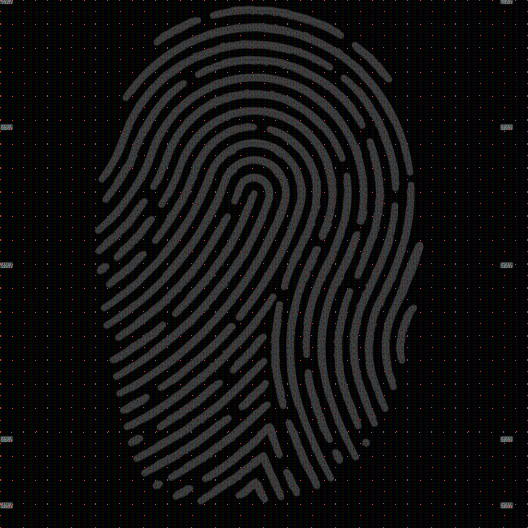
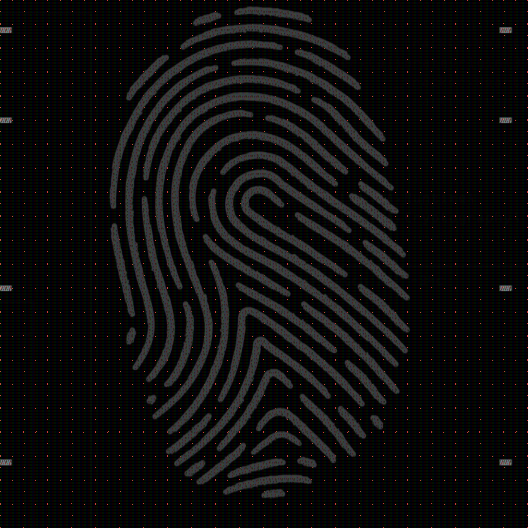
更新指纹图片

diff --git a/index.html b/index.html
@@ -89,13 +89,13 @@
                             <img src="imgs/fingerprints/1.png" alt="">
                         </div>
                         <div class="decypher-fingerprint">
-                            <img src="imgs/fingerprints/1.png" alt="">
+                            <img src="imgs/fingerprints/2.png" alt="">
                         </div>
                         <div class="decypher-fingerprint">
-                            <img src="imgs/fingerprints/1.png" alt="">
+                            <img src="imgs/fingerprints/3.png" alt="">
                         </div>
                         <div class="decypher-fingerprint">
-                            <img src="imgs/fingerprints/1.png" alt="">
+                            <img src="imgs/fingerprints/4.png" alt="">
                         </div>
                     </div>
                 </div>

diff --git a/js/main.js b/js/main.js
@@ -24,7 +24,7 @@ $(function () {
 
 // 开启计时
 function startTimer() {
-    let m = 2;
+    let m = 3;
     let s = 59;
     let ms = 99;
 
